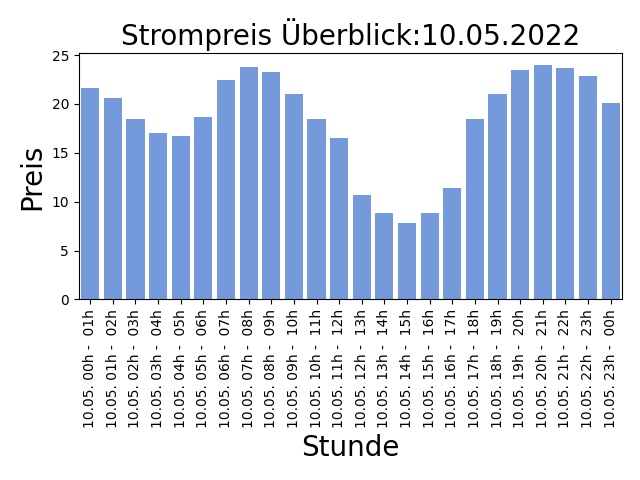
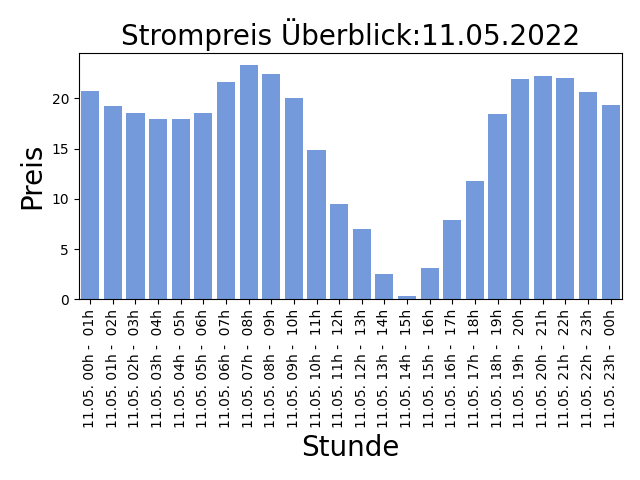
AUTOMATIC UPDATE PRICE LIST: 2022-05-10-14:30:05

diff --git a/README.md b/README.md
@@ -1,5 +1,5 @@
 
-## Strompreise für den 10.05.2022
+## Strompreise für den 11.05.2022
 
 Niedrige Preise deuten auf viel Sonnen und Windenergieerzeugung hin, ein hoher Anteil an erneuerbaren Energien bedeuted weniger CO2 Verbrauch!
 
@@ -7,31 +7,31 @@ Niedrige Preise deuten auf viel Sonnen und Windenergieerzeugung hin, ein hoher A
 
 | Stunde | Preis in Cent/kWh |
 |---|---|
-| 10.05. 00h -  01h | 21.641 | 
-| 10.05. 01h -  02h | 20.561 | 
-| 10.05. 02h -  03h | 18.472 | 
-| 10.05. 03h -  04h | 16.997999999999998 | 
-| 10.05. 04h -  05h | 16.773 | 
-| 10.05. 05h -  06h | 18.706 | 
-| 10.05. 06h -  07h | 22.408 | 
-| 10.05. 07h -  08h | 23.794999999999998 | 
-| 10.05. 08h -  09h | 23.272 | 
-| 10.05. 09h -  10h | 21.025 | 
-| 10.05. 10h -  11h | 18.5 | 
-| 10.05. 11h -  12h | 16.546 | 
-| 10.05. 12h -  13h | 10.690000000000001 | 
-| 10.05. 13h -  14h | 8.844 | 
-| **10.05. 14h -  15h** | **7.865** | 
-| 10.05. 15h -  16h | 8.849 | 
-| 10.05. 16h -  17h | 11.358 | 
-| 10.05. 17h -  18h | 18.443 | 
-| 10.05. 18h -  19h | 20.978 | 
-| 10.05. 19h -  20h | 23.491999999999997 | 
-| 10.05. 20h -  21h | 23.994999999999997 | 
-| 10.05. 21h -  22h | 23.696 | 
-| 10.05. 22h -  23h | 22.909 | 
-| 10.05. 23h -  00h | 20.149 | 
+| 11.05. 00h -  01h | 20.715 | 
+| 11.05. 01h -  02h | 19.28 | 
+| 11.05. 02h -  03h | 18.55 | 
+| 11.05. 03h -  04h | 17.9 | 
+| 11.05. 04h -  05h | 17.946 | 
+| 11.05. 05h -  06h | 18.572 | 
+| 11.05. 06h -  07h | 21.637 | 
+| 11.05. 07h -  08h | 23.322 | 
+| 11.05. 08h -  09h | 22.4 | 
+| 11.05. 09h -  10h | 20.0 | 
+| 11.05. 10h -  11h | 14.846 | 
+| 11.05. 11h -  12h | 9.519 | 
+| 11.05. 12h -  13h | 7.01 | 
+| 11.05. 13h -  14h | 2.523 | 
+| **11.05. 14h -  15h** | **0.374** | 
+| 11.05. 15h -  16h | 3.1260000000000003 | 
+| 11.05. 16h -  17h | 7.904999999999999 | 
+| 11.05. 17h -  18h | 11.76 | 
+| 11.05. 18h -  19h | 18.418 | 
+| 11.05. 19h -  20h | 21.93 | 
+| 11.05. 20h -  21h | 22.193 | 
+| 11.05. 21h -  22h | 22.0 | 
+| 11.05. 22h -  23h | 20.601 | 
+| 11.05. 23h -  00h | 19.293 | 
 
 Preise der EPEX Spot ® Strombörse (neue Preise werden täglich um 14:00 veröffentlicht für den kompletten nächsten Tag).
 
-letzte Aktualisierung:09.05.2022 14:30
+letzte Aktualisierung:10.05.2022 14:30
